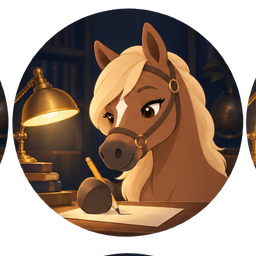
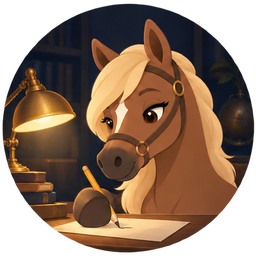
[fast-deploy] [writing-release] Correct Phoebe still circle crops

diff --git a/writing-submission.html b/writing-submission.html
@@ -42,7 +42,7 @@
       <div class="header-actions edmund-system-header__actions">
         <button class="phoebe-writing-toggle" type="button" data-phoebe-writing-toggle data-playing="true" aria-label="暫停 Phoebe 寫字動畫" aria-pressed="true" title="點擊暫停 Phoebe 寫字動畫">
           <picture class="phoebe-writing-art">
-            <source media="(prefers-reduced-motion: reduce)" srcset="writing-phoebe-stills/phoebe-01.png?v=20261022-pause-stills">
+            <source media="(prefers-reduced-motion: reduce)" srcset="writing-phoebe-stills/phoebe-01.png?v=20261022-pause-stills-crop2">
             <img src="writing-phoebe-writing.gif?v=20261022-fixed-writing-72" width="78" height="78" alt="Phoebe 在書房桌燈旁寫字">
           </picture>
           <span class="phoebe-writing-lamp-glow" aria-hidden="true"></span>

diff --git a/writing-submission.js b/writing-submission.js
@@ -3770,7 +3770,7 @@ function initialisePhoebeWritingToggle() {
   const reducedMotionSource = button.querySelector('source[media="(prefers-reduced-motion: reduce)"]');
   const gifSrc = image.getAttribute('src');
   const stillSources = Array.from({ length: 7 }, (_, index) =>
-    `writing-phoebe-stills/phoebe-${String(index + 1).padStart(2, '0')}.png?v=20261022-pause-stills`
+    `writing-phoebe-stills/phoebe-${String(index + 1).padStart(2, '0')}.png?v=20261022-pause-stills-crop2`
   );
   const storageKey = 'edmund-writing-phoebe-visible';
   let playing = true;
